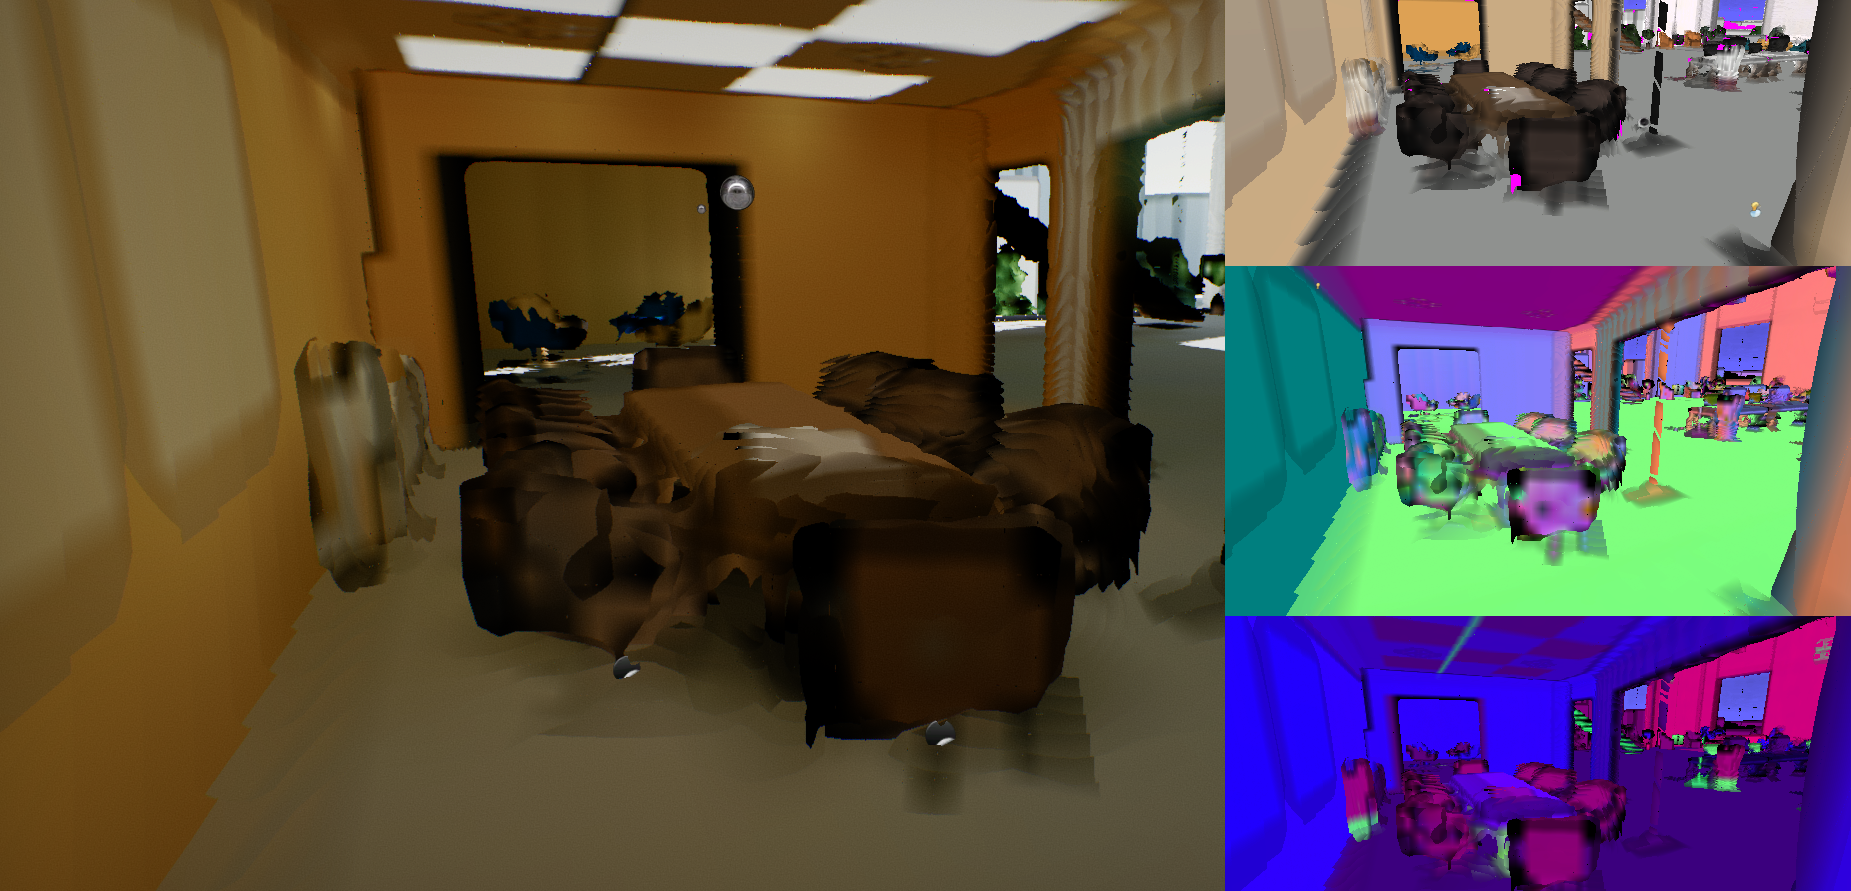
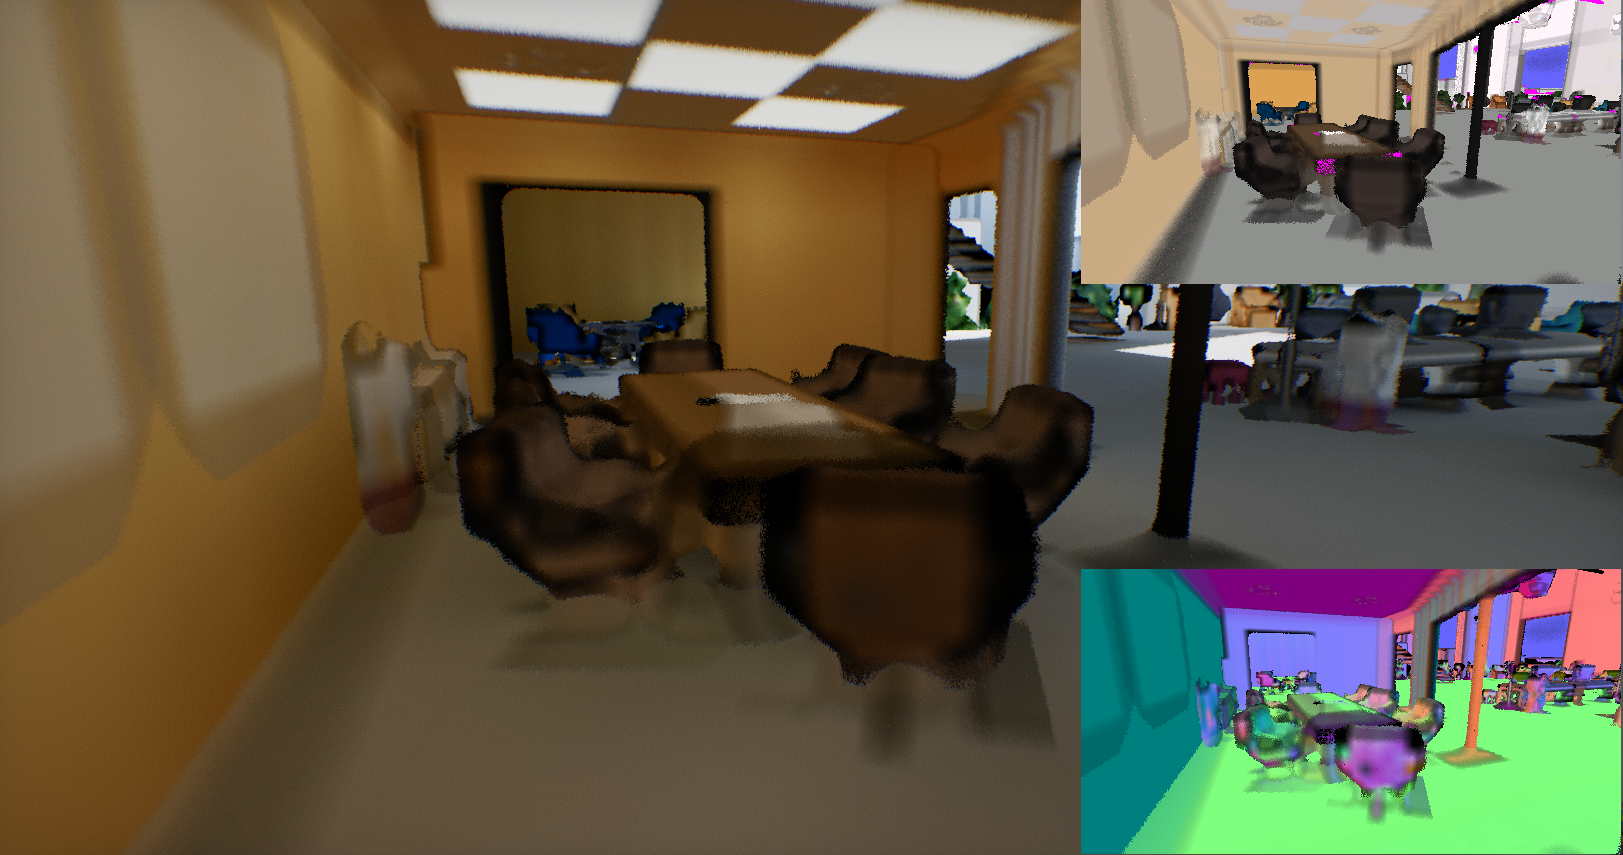
Update DDGI docs

diff --git a/manual/graphics/lighting/gi/realtime.md b/manual/graphics/lighting/gi/realtime.md
@@ -18,11 +18,15 @@ To learn how to quickly set up Realtime Global Illumination see [this tutorial](
 
 It uses light probes (world-space, automatically placed) to gather indirect lighting at a fixed location and then later sample it in materials (opaque, transparent and volumetric). To prevent light leaking, a common problem of light probe-based solutions, the DDGI algorithm renders a low-resolution depth buffer around each probe and applies the *Chebyshev* visibility weight.
 
-DDGI probes are placed around the camera and are split into a series of cascades to cover the whole scene. When the camera moves though the scene, the probes are scrolled to maintain GI coverage.
+DDGI probes are placed around the camera and are split into a series of cascades to cover the whole scene. When the camera moves though the scene, the probes are scrolled to maintain GI coverage. Far-scene outside the GI *Distance* uses a fallback probe with ambient irradiance from the sky.
 
 ### DDGI Algorithm
 
-Flax's implementation of the DDGI algorithm uses custom a **Software Ray Tracing** solution and an automatically **scrolled probes volume** with up to **4 cascades**. Watch the video below to learn more about the technical and artistic aspects of this rendering feature:
+Flax's implementation of the DDGI algorithm uses custom a **Software Ray Tracing** solution and an automatically **scrolled probes volume** with up to **4 cascades**. Cascades closer to the camera are update more often compared to far cascades.
+
+Probes use variable-ray count based on probe state and variance of the irradiance calculated during probe update. This allows scale down ray count to save on perf when nearby lighting has stabilized and doesn't fluctuate but when for example nearby objects are moving or changing color then ray count automaticallly increases to account for dynamic lighting response. Additionallly, to amortize potential noise artifacts when using low ray count the blend factor used by the probe is high which slows down the GI changes.
+
+Watch the video below to learn more about the technical and artistic aspects of this rendering feature:
 
 <center><a href="https://www.gdcvault.com/play/1026182/" target="_blank"><img src="media/ddgi-video-icon.jpg" style="width:80%; border:4px solid #000"></a></center>
 
@@ -45,7 +49,9 @@ Then you can adjust the following options:
 | **BounceIntensity** | Global Illumination infinite indirect lighting bounce intensity scale. Can be used to boost or reduce the GI effect for light bouncing on the surfaces. |
 | **Temporal Response** | Defines how quickly GI blends between the the current frame and the history buffer. Lower values update GI faster, but with more jittering and noise. If the camera in your game doesn't move much, we recommend values closer to 1. |
 | **Distance** | Draw distance of the Global Illumination effect. Scenes outside the range will use fallback irradiance. |
+| **Indirect Shadows Strength** | Indirect lighting shadows intensity. Default is 1 for fully opaque shadowing, lower values bleed the lighting into shadowed areas. Can be sued for artistic control over GI. |
 | **Fallback Irradiance** | The irradiance lighting outside the GI range used as a fallback to prevent a pure-black scene outside the Global Illumination range. |
+| **Indirect Resolution** | The indirect lighting render resolution. Full gives better quality, but half improves performance. |
 
 Additional relevant options in the [Graphics Settings](../../../editor/game-settings/graphics-settings.md):
 
@@ -118,11 +124,21 @@ Use **View -> Debug View -> Global Illumination** to preview DDGI probes in a vi
 * **Meshes need to have simple interiors** (eg. house model with separate walls) - use Global Surface Atlas debug view to analyze your content.
 * Large emissive surfaces like a TV screen might need additional light sources to correctly cover specular lighting.
 * Small emissive objects might flicker due to imperfections caused by reduced rendering resources resolution.
+* Use **Global SDF Overlap** debug view mode to analyze cost of SDF rasterization, which is related to the number of objects in each chunk of the world (shown an a picture below).
 
-### DDGI Cost
+![Global SDF Overlap](media/global-sdf-overlap.png)
 
- Total GPU memory usage of DDGI is between 200-400 MB (depending on quality and content):
-* DDGI uses up to 69 MB of GPU memory (depending on quality) *(nice)*
-* Global Surface Atlas uses around 49 MB of GPU memory (or more when using higher resolution)
-* Global SDF uses up to 130 MB of GPU memory (depending on the quality)
-* Models SDFs can use several MBs of GPU memory
+### DDGI Memory
+
+Total GPU memory usage of DDGI is between 200-300 MB (depending on quality and content):
+* DDGI uses up to 69 MB of GPU memory (depending on quality),
+* Global Surface Atlas uses around 24 MB of GPU memory (based on resolution setting),
+* Global SDF uses up to 65 MB of GPU memory (depending on the quality),
+* Models SDFs can use several MBs of GPU memory,
+* Use `Graphics.GI.Dump` to log current stats or DDGI rendering internals and memory usage.
+
+### Performance & Optimization
+
+Use `StaticFlags` on static scene objects to optimize rendering. Dynamic objects are rasterized into Global SDF more often and their surfaces are rendered into Global Surface Atlas at higher refresh rate.
+
+Setup *GI Quality* to scale across different devices. GI Quality controls amount of rays that can be shoot from probes every frame. Higher quality uses more rays thus accoutns for more stable and dynamic GI. On lower quality,  with less rays avaliable, GI can contain minor artifacts in low-light scenarios and uses higher blending to reduce nosie which limits GI propagation speed. Additional, *Indirect Resolution* setting can help on low-end devices by resolving GI lighting in lower resolution with bilateral upscaling (depth and normal weighting).
